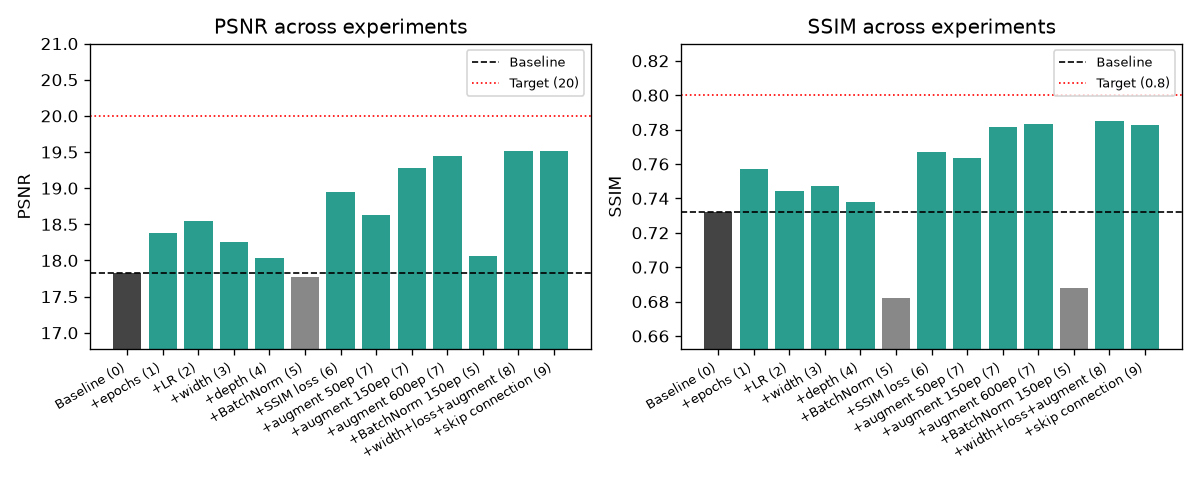
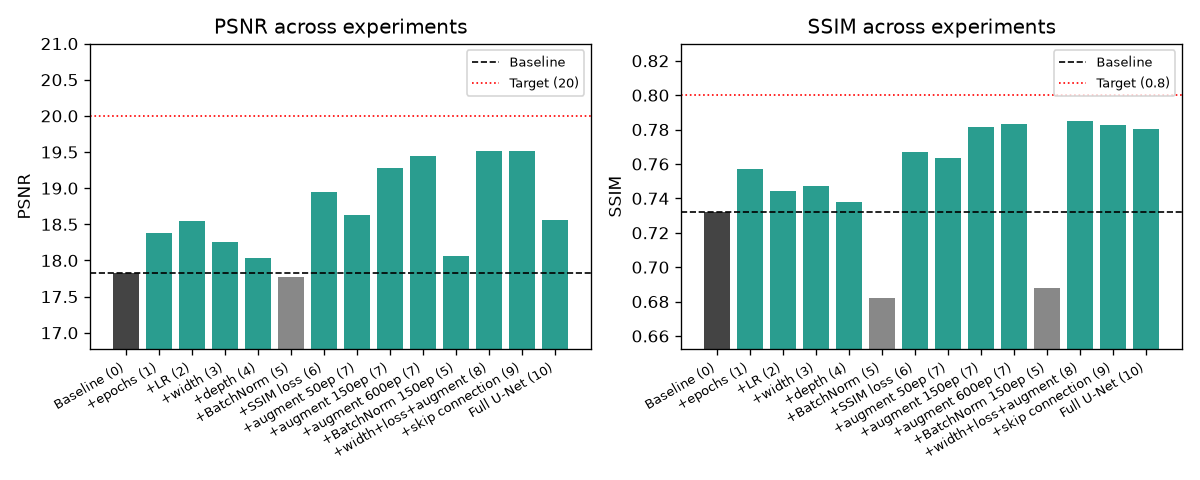
Step 10: full U-Net - worse than Step 8 despite 11.7x more params
Added a separate UNet class (2 downsample/upsample stages, skip
connections at each resolution level), gated behind --unet; existing
LowLightEnhanceNet path untouched.

Run 18 (150 epochs, hidden-channels=32 after a timing pilot ruled out
64): PSNR 18.56/SSIM 0.7806, vs Step 8's 19.51/0.7849. Eval scores
plateaued and declined slightly past epoch 100 while training loss kept
falling - overfitting on the 485-image dataset, not undertraining.
models_step8_combined/ remains the best Phase 1 checkpoint. Phase 1's
architecture search is now complete; next is Step 11's benchmark.

Changed region(s): [[0.5242, 0.25, 0.9558, 0.9375], [0.0308, 0.3125, 0.4933, 0.9375]]

diff --git a/train.py b/train.py
@@ -60,6 +60,46 @@ class LowLightEnhanceNet(nn.Module):
             return self.final(features)
         return self.net(x)
 
+
+class UNet(nn.Module):
+    """Step 10: a real U-Net - 2 downsample/upsample stages, skip connections
+    at each resolution level, not just one (Step 9 showed one skip connection
+    does nothing on a shallow network; this gives it actual depth to matter)."""
+
+    def __init__(self, in_channels=3, out_channels=3, hidden_channels=32):
+        super().__init__()
+        C = hidden_channels
+
+        def conv_block(in_c, out_c):
+            return nn.Sequential(
+                nn.Conv2d(in_c, out_c, kernel_size=3, padding=1), nn.ReLU(inplace=True),
+                nn.Conv2d(out_c, out_c, kernel_size=3, padding=1), nn.ReLU(inplace=True),
+            )
+
+        # Encoder: each stage halves resolution, doubles channels
+        self.enc0 = conv_block(in_channels, C)       # full res,  C channels  -> skip0
+        self.enc1 = conv_block(C, C * 2)              # 1/2 res,   2C channels -> skip1
+        self.bottleneck = conv_block(C * 2, C * 4)    # 1/4 res,   4C channels
+        self.pool = nn.MaxPool2d(2)
+
+        # Decoder: each stage upsamples back, concats the matching skip, then convs down
+        self.up1 = nn.Upsample(scale_factor=2, mode="bilinear", align_corners=False)
+        self.dec1 = conv_block(C * 4 + C * 2, C * 2)  # upsampled(4C) + skip1(2C) -> 2C
+        self.up0 = nn.Upsample(scale_factor=2, mode="bilinear", align_corners=False)
+        self.dec0 = conv_block(C * 2 + C, C)          # upsampled(2C) + skip0(C) -> C
+
+        self.final = nn.Sequential(nn.Conv2d(C, out_channels, kernel_size=3, padding=1), nn.Sigmoid())
+
+    def forward(self, x):
+        skip0 = self.enc0(x)
+        skip1 = self.enc1(self.pool(skip0))
+        x = self.bottleneck(self.pool(skip1))
+
+        x = self.dec1(torch.cat([self.up1(x), skip1], dim=1))
+        x = self.dec0(torch.cat([self.up0(x), skip0], dim=1))
+        return self.final(x)
+
+
 def train(args):
     # checks Apple Silicon GPU (mps) -> NVIDIA/AMD GPU (cuda - AMD ROCm builds use the same cuda API) -> cpu fallback
     device = torch.device(
@@ -76,10 +116,13 @@ def train(args):
     dataset = LowLightDataset(args.data_dir, transform=transform, augment=args.augment)
     dataloader = DataLoader(dataset, batch_size=args.batch_size, shuffle=True)
 
-    model = LowLightEnhanceNet(
-        hidden_channels=args.hidden_channels, extra_layer=args.extra_layer, batchnorm=args.batchnorm,
-        skip_connection=args.skip_connection,
-    ).to(device)
+    if args.unet:
+        model = UNet(hidden_channels=args.hidden_channels).to(device)
+    else:
+        model = LowLightEnhanceNet(
+            hidden_channels=args.hidden_channels, extra_layer=args.extra_layer, batchnorm=args.batchnorm,
+            skip_connection=args.skip_connection,
+        ).to(device)
 
     l1 = nn.L1Loss()
     mse = nn.MSELoss()
@@ -130,6 +173,7 @@ if __name__ == "__main__":
     parser.add_argument("--loss", type=str, default="l1", choices=["l1", "mse", "ssim"], help="Loss function")
     parser.add_argument("--augment", action="store_true", help="Random horizontal flip + crop during training (Step 7)")
     parser.add_argument("--skip-connection", action="store_true", help="Concat stem output into the final conv (Step 9)")
+    parser.add_argument("--unet", action="store_true", help="Use the full U-Net architecture instead of LowLightEnhanceNet (Step 10)")
     args = parser.parse_args()
 
     train(args)

diff --git a/evaluate.py b/evaluate.py
@@ -6,7 +6,7 @@ from PIL import Image
 from torchvision import transforms
 
 from metrics import psnr, ssim
-from train import LowLightEnhanceNet
+from train import LowLightEnhanceNet, UNet
 
 
 def evaluate(args):
@@ -17,10 +17,13 @@ def evaluate(args):
         else "cpu"
     )
 
-    model = LowLightEnhanceNet(
-        hidden_channels=args.hidden_channels, extra_layer=args.extra_layer, batchnorm=args.batchnorm,
-        skip_connection=args.skip_connection,
-    ).to(device)
+    if args.unet:
+        model = UNet(hidden_channels=args.hidden_channels).to(device)
+    else:
+        model = LowLightEnhanceNet(
+            hidden_channels=args.hidden_channels, extra_layer=args.extra_layer, batchnorm=args.batchnorm,
+            skip_connection=args.skip_connection,
+        ).to(device)
     model.load_state_dict(torch.load(args.checkpoint, map_location=device))
     model.eval()
 
@@ -60,6 +63,7 @@ if __name__ == "__main__":
     parser.add_argument("--extra-layer", action="store_true", help="Match a checkpoint trained with a 4th Conv2d+ReLU layer")
     parser.add_argument("--batchnorm", action="store_true", help="Match a checkpoint trained with BatchNorm2d")
     parser.add_argument("--skip-connection", action="store_true", help="Match a checkpoint trained with a skip connection")
+    parser.add_argument("--unet", action="store_true", help="Match a checkpoint trained with the U-Net architecture (Step 10)")
     args = parser.parse_args()
 
     evaluate(args)

diff --git a/inference.py b/inference.py
@@ -5,7 +5,7 @@ import torch
 from PIL import Image
 from torchvision import transforms
 
-from train import LowLightEnhanceNet
+from train import LowLightEnhanceNet, UNet
 
 
 def enhance(args):
@@ -16,10 +16,13 @@ def enhance(args):
         else "cpu"
     )
 
-    model = LowLightEnhanceNet(
-        hidden_channels=args.hidden_channels, extra_layer=args.extra_layer, batchnorm=args.batchnorm,
-        skip_connection=args.skip_connection,
-    ).to(device)
+    if args.unet:
+        model = UNet(hidden_channels=args.hidden_channels).to(device)
+    else:
+        model = LowLightEnhanceNet(
+            hidden_channels=args.hidden_channels, extra_layer=args.extra_layer, batchnorm=args.batchnorm,
+            skip_connection=args.skip_connection,
+        ).to(device)
     model.load_state_dict(torch.load(args.checkpoint, map_location=device))
     model.eval()
 
@@ -53,6 +56,7 @@ if __name__ == "__main__":
     parser.add_argument("--extra-layer", action="store_true", help="Match a checkpoint trained with a 4th Conv2d+ReLU layer")
     parser.add_argument("--batchnorm", action="store_true", help="Match a checkpoint trained with BatchNorm2d")
     parser.add_argument("--skip-connection", action="store_true", help="Match a checkpoint trained with a skip connection")
+    parser.add_argument("--unet", action="store_true", help="Match a checkpoint trained with the U-Net architecture (Step 10)")
     args = parser.parse_args()
 
     enhance(args)

diff --git a/chart.py b/chart.py
@@ -21,6 +21,7 @@ RUNS = [
     ("+BatchNorm 150ep (5)", 18.06, 0.6879),
     ("+width+loss+augment (8)", 19.51, 0.7849),
     ("+skip connection (9)", 19.52, 0.7827),
+    ("Full U-Net (10)", 18.56, 0.7806),
 ]
 
 PSNR_TARGET = 20

diff --git a/PROGRESS.md b/PROGRESS.md
@@ -304,6 +304,48 @@ intentionally the simplest possible baseline.
   the repeatedly-confirmed real bottleneck (architecture depth/capacity)
   more directly. Not pursued further for now.
 
+### Run 18 — Step 10: full U-Net architecture (complete)
+
+- Added a new `UNet` class in `train.py` (kept separate from
+  `LowLightEnhanceNet` - genuinely different shape, not a variant): 2
+  downsample stages (`MaxPool2d`) in the encoder, matching 2 upsample
+  stages (bilinear) in the decoder, with a skip connection (`torch.cat`)
+  at *each* resolution level — channels double at each downsample
+  (C -> 2C -> 4C), same pattern as a real U-Net. Gated behind a new
+  `--unet` flag in `train.py`/`evaluate.py`/`inference.py`; the existing
+  `LowLightEnhanceNet` path is untouched.
+- A 10-epoch timing pilot at `--hidden-channels 64` (matching Step 8)
+  showed ~590s/epoch — a full 150-epoch run would cost ~24.6 hours, 45x
+  more parameters than Step 8's network (7.5MB checkpoint vs 165KB).
+  Dropped to `--hidden-channels 32` (the U-Net's *base* channel count,
+  so actual channels are 32->64->128) to bring the full run down to a
+  more reasonable ~9.5 hours, confirmed by the actual run's pace.
+- Config: `--epochs 150 --hidden-channels 32 --loss ssim --augment --unet`
+  -> `models_step10_unet/` — isolates the architecture (U-Net vs. the
+  flat network) as the variable, keeping loss/augmentation from Step 8.
+- Evaluation on `eval15` (`model_epoch150.pth`): PSNR=18.56, SSIM=0.7806
+  — **worse than Step 8 (19.51/0.7849) despite ~11.7x more parameters**
+  (472K vs ~40K, even at the lighter 32-channel setting).
+- Spot-checked intermediate checkpoints to understand why: eval scores
+  climbed sharply through epoch 100 (17.08 -> 18.82 PSNR), then
+  plateaued and slightly *declined* through epoch 150 (18.82 -> 18.61 ->
+  18.56), even as training loss kept falling the whole time (ended at
+  0.236, lower than Step 8's 0.262). That combination — better training
+  loss, worse/declining eval score — is the signature of mild
+  **overfitting**, not undertraining (unlike Step 7's story).
+- **Conclusion: more model capacity without more data or regularization
+  overfits a 485-image training set rather than generalizing better.**
+  There's likely also a structural cost: `MaxPool2d` discards exact
+  spatial detail that bilinear upsampling can't fully recover, which may
+  hurt a task scored on exact pixel-level match more than the extra
+  depth helps. This doesn't mean U-Nets are bad for this task — published
+  results use more data, more regularization, and more sophisticated
+  upsampling than this minimal from-scratch version — just that bigger
+  architecture alone, under this project's current constraints, isn't
+  the lever that closes the gap. **Run 15 (`models_step8_combined/`,
+  19.51/0.7849) remains the best Phase 1 result and the one to carry
+  into Step 11's benchmark comparison.**
+
 ## Roadmap — three phases, one change at a time within each
 
 The overall learning process, in order:
@@ -367,12 +409,23 @@ way, whichever comes first.
       essentially a wash against Step 8 (19.51/0.7849), not a meaningful
       win. Likely because the network is too shallow (2-3 layers) for a
       skip connection to have much to rescue. Run 15 stays the best.
-- [ ] Step 10 — Full U-Net-style architecture (multiple downsample/upsample
-      stages with skip connections), compare against all of the above
+- [x] Step 10 — Full U-Net-style architecture (multiple downsample/upsample
+      stages with skip connections), compare against all of the above.
+      Run 18, 150 epochs: PSNR 18.56, SSIM 0.7806 — **worse than Step 8**
+      despite ~11.7x more parameters. Eval scores plateaued and slightly
+      declined past epoch 100 while training loss kept falling —
+      overfitting on the small 485-image dataset, not undertraining.
+      Step 8 (`models_step8_combined/`) remains the best Phase 1 result.
 
 Steps 3-9 are not strictly sequential — once Steps 1-2 isolate whether
 training time/LR explain the gap, pick whichever structural change seems
 most promising based on results so far, not necessarily in this exact order.
+
+Phase 1's self-built architecture search is now complete (Steps 0-10).
+Best result: **Run 15, PSNR 19.51 / SSIM 0.7849** — short of the 20/0.8
+target, but every avenue tried (hyperparameters, loss function,
+augmentation, skip connections, a full U-Net, resolution) has been
+measured, not assumed. Next: Step 11, the benchmark comparison.
 
 ### Phase 1 benchmark
 
@@ -460,7 +513,11 @@ then beat the 600-epoch run using 4x less training time, confirming
 combining proven changes is more efficient than squeezing one config.
 Step 9 (one skip connection on top of Step 8) was a wash — essentially
 flat on both metrics, suggesting this network is too shallow for a skip
-connection to matter yet. Step 8 remains the best result.
+connection to matter yet. Step 10 (a full U-Net, ~11.7x more parameters)
+went further and actually did *worse* — eval scores plateaued and
+declined slightly past epoch 100 while training loss kept falling,
+pointing to overfitting on the small dataset rather than undertraining.
+Step 8 remains the best result of the whole Phase 1 architecture search.
 
 | Checkpoint | PSNR | SSIM | Notes |
 |---|---|---|---|
@@ -480,3 +537,4 @@ connection to matter yet. Step 8 remains the best result.
 | Run 14, epoch 150 (batchnorm) | 18.06 | 0.6879 | BatchNorm retest — barely moves, confirms Step 5 is a real regression |
 | Run 15, epoch 150 (hc=64 + ssim loss + augment) | 19.51 | 0.7849 | Step 8 combo — **new best**, beats Run 13 with 4x less compute |
 | Run 16, epoch 150 (+ skip connection) | 19.52 | 0.7827 | Step 9 — essentially a wash vs Run 15, not adopted as best |
+| Run 18, epoch 150 (U-Net, hc=32) | 18.56 | 0.7806 | Step 10 — worse despite 11.7x more params; overfitting, not undertraining |

diff --git a/CLAUDE.md b/CLAUDE.md
@@ -107,7 +107,8 @@ See `PROGRESS.md` for the full experiment log and the three-phase roadmap
 unsupervised, Phase 2 benchmark, Phase 3 video). Check it first — it has
 the latest results and says exactly which step is next.
 
-Quick summary as of last update: Phase 1, Steps 0-9 done. Baseline (50 epochs,
+Quick summary as of last update: Phase 1, Steps 0-10 done — the self-built
+architecture search is complete. Baseline (50 epochs,
 lr=1e-4): PSNR 17.82/SSIM 0.7322. Steps 1-4 (time, LR, width, depth) all
 gave modest gains in an 18.0-18.5 PSNR band. Step 5 (BatchNorm) was a
 regression (17.77/0.6822) — hurts pixel-regression tasks, matches known
@@ -127,10 +128,24 @@ flag — default path unchanged, every earlier checkpoint still loads) was
 essentially a wash: PSNR 19.52/SSIM 0.7827, not a meaningful change
 either way. Likely because 2-3 conv layers is too shallow for a skip
 connection to have much to rescue — that's what deep U-Nets are for.
-**`models_step8_combined/` is still the checkpoint to build on**, not the
-Step 9 one. Still short of the 20/0.8 target, but closest yet. Next:
-Step 10 (a real multi-stage U-Net) — the actual test of whether skip
-connections matter here, now that a single one didn't.
+Step 10 (a real multi-stage U-Net, new `UNet` class in `train.py`, gated
+behind `--unet`) tested that directly — and came out **worse**: PSNR
+18.56/SSIM 0.7806, despite ~11.7x more parameters (472K vs ~40K at
+hidden-channels=32, the base width used after a timing pilot showed
+hidden-channels=64 would cost ~24.6 hours). Eval scores plateaued and
+slightly declined past epoch 100 while training loss kept falling —
+overfitting on the 485-image dataset, not undertraining. A resolution
+pilot (training closer to eval15's native 600x400 instead of the
+default 256x256) also only showed a weak signal and wasn't pursued
+further.
+
+**`models_step8_combined/` remains the best Phase 1 checkpoint**
+(PSNR 19.51/SSIM 0.7849) — still short of the 20/0.8 target, but every
+avenue tried (hyperparameters, loss function, augmentation, skip
+connections, a full U-Net, resolution) has been measured, not assumed.
+Next: Step 11 — benchmark the best self-built result against a published
+supervised model (KinD, ~20.4 PSNR/~0.80 SSIM) to see how close this
+self-built approach got, which closes out Phase 1.
 
 ## Environment
 
